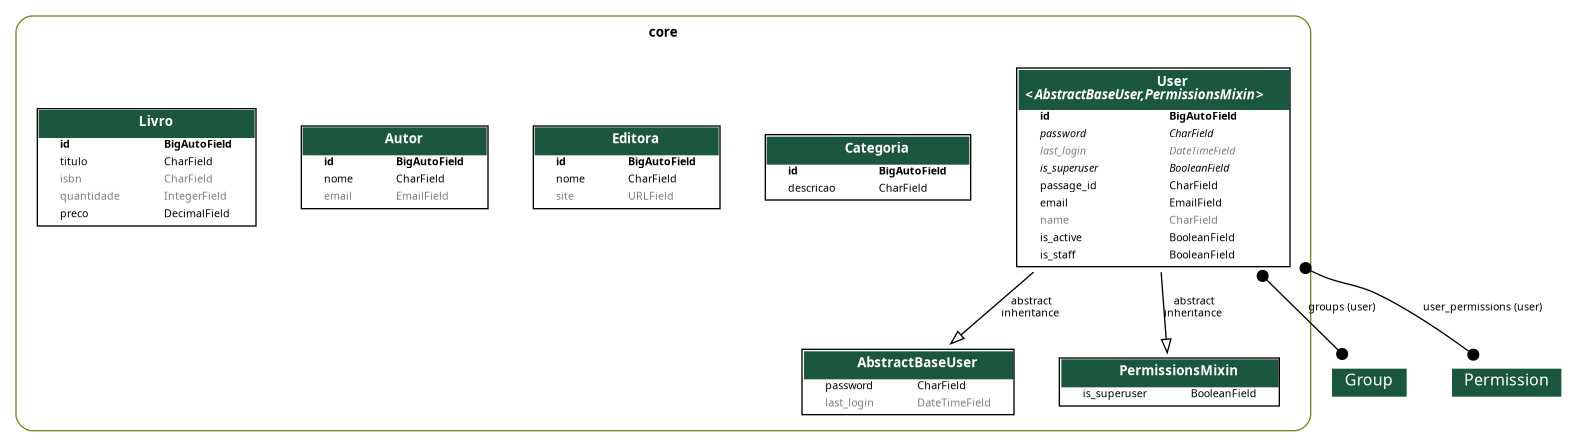
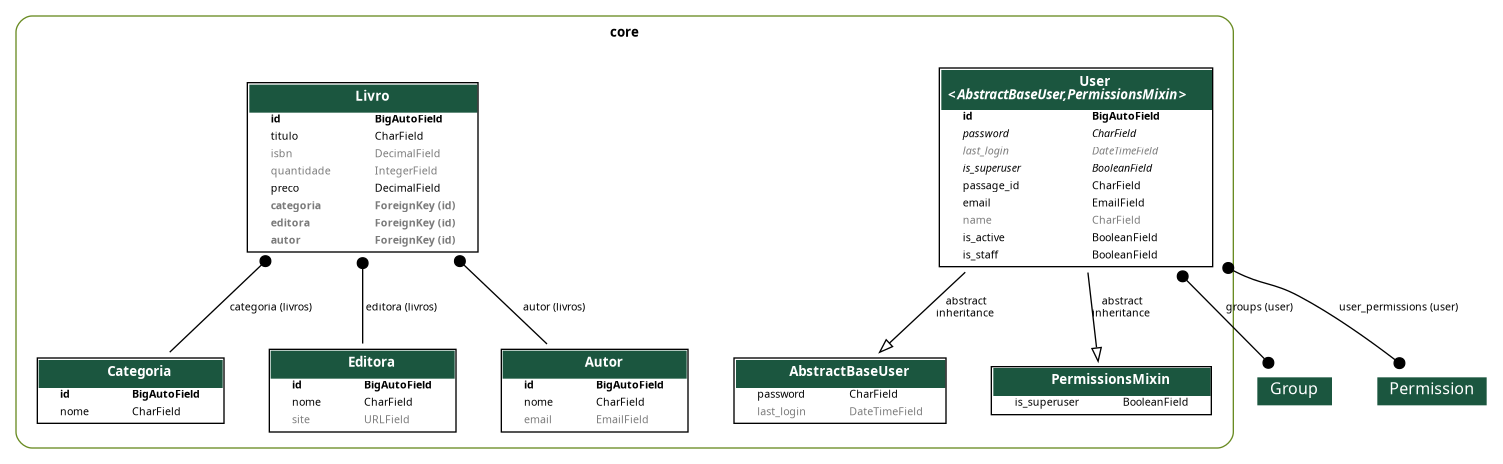
feat: inclusão do relacionamento de Livro com Categoria, Editora e Autor

diff --git a/core/models/livro.py b/core/models/livro.py
@@ -1,11 +1,22 @@
 from django.db import models
-
+from .categoria import Categoria
+from .editora import Editora
+from .autor import Autor
 
 class Livro(models.Model):
     titulo = models.CharField(max_length=255)
-    isbn = models.CharField(max_length=32, null=True, blank=True)
-    quantidade = models.IntegerField(default=0,  null=True, blank=True)
+    isbn = models.DecimalField(max_digits=13, decimal_places=0, null=True, blank=True)
+    quantidade = models.IntegerField(default=0, null=True, blank=True)
     preco = models.DecimalField(max_digits=7, decimal_places=2, default=0)
+    categoria = models.ForeignKey(Categoria, on_delete=models.PROTECT, related_name='livros', null=True, blank=True)
+    editora = models.ForeignKey(Editora, on_delete=models.PROTECT, related_name='livros', null=True, blank=True)
+    autor = models.ForeignKey(Autor, on_delete=models.PROTECT, related_name='livros', null=True, blank=True)
 
     def __str__(self):
-        return f'({self.id}) {self.titulo} ({self.quantidade})'
+        categoria_str = self.categoria.nome if self.categoria else 'Sem categoria'
+        editora_str = self.editora.nome if self.editora else 'Sem editora'
+        autor_str = self.autor.nome if self.autor else 'Sem autor'
+        
+        return (f"ID: {self.id} - {self.titulo} "
+                f"({self.quantidade or 0} disponíveis - R$ {self.preco:.2f} cada) "
+                f"- {categoria_str} - {editora_str} - {autor_str}")

diff --git a/core/migrations/0009_livro_autor_livro_categoria_livro_editora.py b/core/migrations/0009_livro_autor_livro_categoria_livro_editora.py
@@ -1,0 +1,29 @@
+# Generated by Django 5.1.7 on 2026-03-10 16:58
+
+import django.db.models.deletion
+from django.db import migrations, models
+
+
+class Migration(migrations.Migration):
+
+    dependencies = [
+        ('core', '0008_livro'),
+    ]
+
+    operations = [
+        migrations.AddField(
+            model_name='livro',
+            name='autor',
+            field=models.ForeignKey(blank=True, null=True, on_delete=django.db.models.deletion.PROTECT, related_name='livros', to='core.autor'),
+        ),
+        migrations.AddField(
+            model_name='livro',
+            name='categoria',
+            field=models.ForeignKey(blank=True, null=True, on_delete=django.db.models.deletion.PROTECT, related_name='livros', to='core.categoria'),
+        ),
+        migrations.AddField(
+            model_name='livro',
+            name='editora',
+            field=models.ForeignKey(blank=True, null=True, on_delete=django.db.models.deletion.PROTECT, related_name='livros', to='core.editora'),
+        ),
+    ]

diff --git a/core/migrations/0011_alter_categoria_options_and_more.py b/core/migrations/0011_alter_categoria_options_and_more.py
@@ -1,0 +1,22 @@
+# Generated by Django 5.1.7 on 2026-03-10 17:11
+
+from django.db import migrations
+
+
+class Migration(migrations.Migration):
+
+    dependencies = [
+        ('core', '0010_alter_livro_isbn'),
+    ]
+
+    operations = [
+        migrations.AlterModelOptions(
+            name='categoria',
+            options={'verbose_name_plural': 'Categorias'},
+        ),
+        migrations.RenameField(
+            model_name='categoria',
+            old_name='descricao',
+            new_name='nome',
+        ),
+    ]

diff --git a/core/migrations/0010_alter_livro_isbn.py b/core/migrations/0010_alter_livro_isbn.py
@@ -1,0 +1,18 @@
+# Generated by Django 5.1.7 on 2026-03-10 17:02
+
+from django.db import migrations, models
+
+
+class Migration(migrations.Migration):
+
+    dependencies = [
+        ('core', '0009_livro_autor_livro_categoria_livro_editora'),
+    ]
+
+    operations = [
+        migrations.AlterField(
+            model_name='livro',
+            name='isbn',
+            field=models.DecimalField(blank=True, decimal_places=0, max_digits=13, null=True),
+        ),
+    ]

diff --git a/core/models/categoria.py b/core/models/categoria.py
@@ -1,6 +1,11 @@
 from django.db import models
 
+
 class Categoria(models.Model):
-    descricao = models.CharField(max_length=100)
+    nome = models.CharField(max_length=100)
+    
     def __str__(self):
-        return self.descricao
+        return self.nome
+
+    class Meta:
+        verbose_name_plural = "Categorias"
